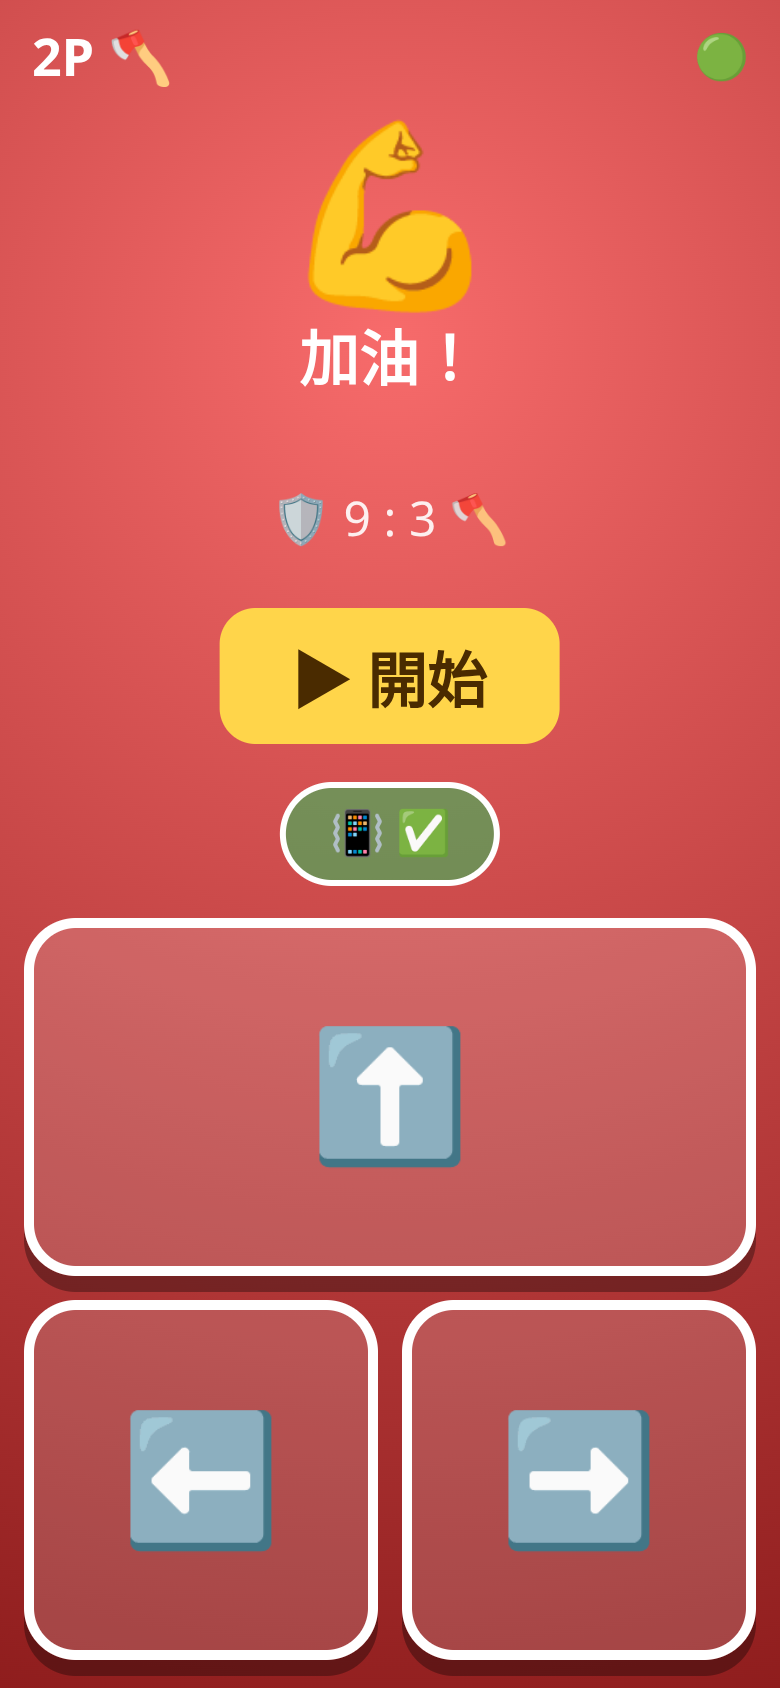
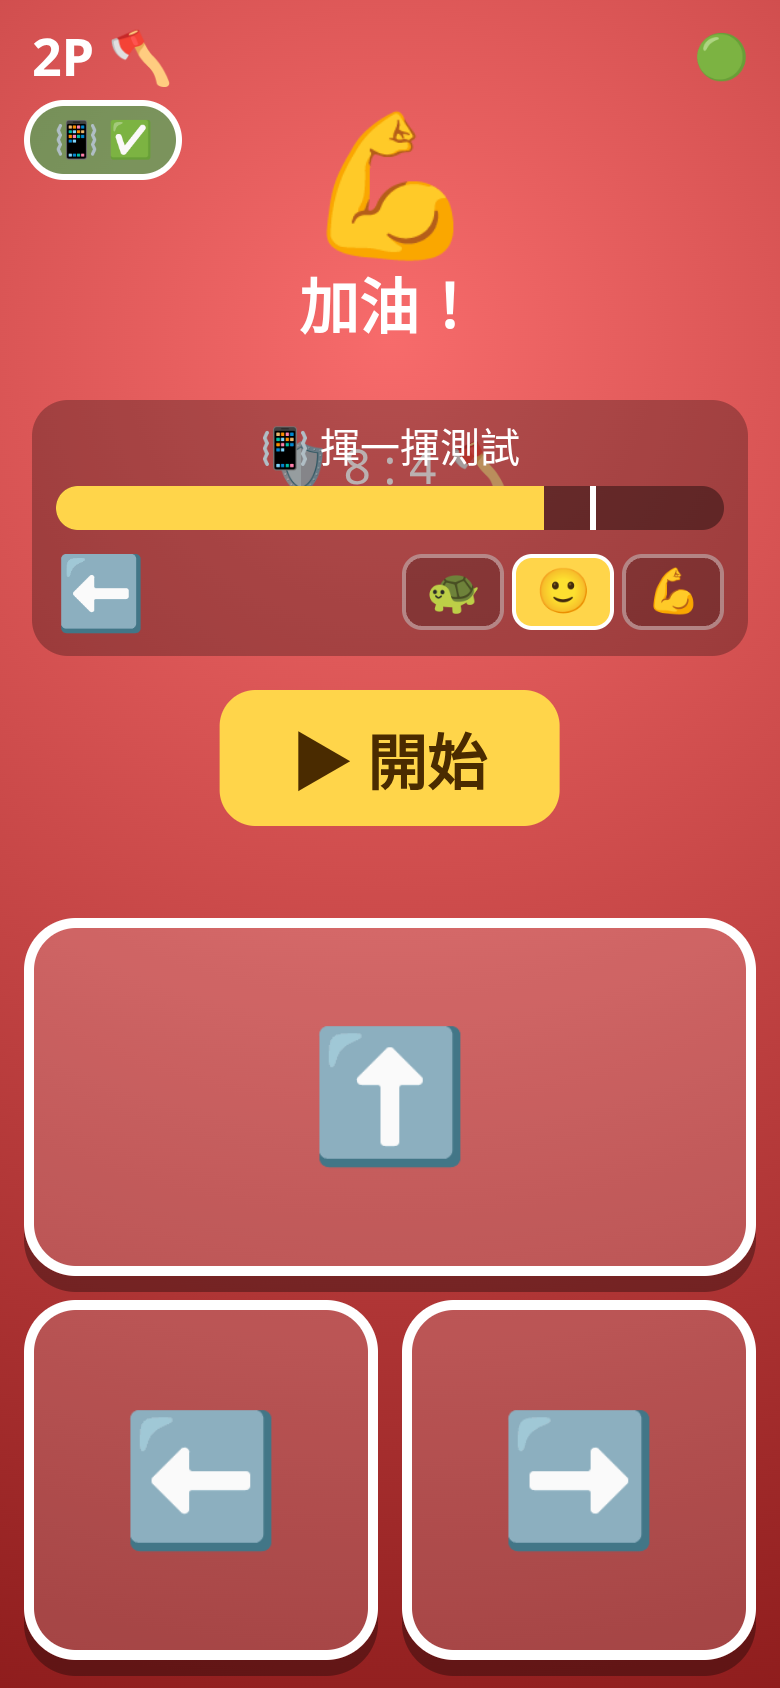
Real-swing detection (accel+rotation), hold-to-guard, swing test meter, sensitivity

Changed region(s): [[0.0308, 0.0616, 0.9846, 0.5237], [0.0308, 0.0616, 0.2462, 0.1232]]

diff --git a/js/controller.js b/js/controller.js
@@ -13,6 +13,7 @@
     const atk = S.role === 'atk';
     $('role').textContent = S.phase === 'over' ? (S.win ? '🏆' : S.draw ? '🤝' : '💪') : !S.connected ? '⏳' : S.phase === 'lobby' ? '✅' : atk ? '⚔' : '🛡';
     $('roleTxt').textContent = S.phase === 'over' ? (S.win ? '勝利！' : S.draw ? '平手' : '加油！') : !S.connected ? '連接中…' : S.phase === 'lobby' ? '已連接' : atk ? '你劈！' : '你擋！';
+    $('calib').classList.toggle('hidden', !(S.phase === 'lobby' || S.phase === 'over')); $('score').classList.toggle('hidden', S.phase === 'lobby');
     $('startBtn').classList.toggle('hidden', !(S.connected && (S.phase === 'lobby' || S.phase === 'over')));
     if (S.score) $('score').textContent = `🛡 ${S.score[0]} : ${S.score[1]} 🪓`;
   }
@@ -42,7 +43,7 @@
   function onData(m) {
     lastMsg = Date.now();
     if (m.t === 'state') { const changed = m.role !== S.role || m.phase !== S.phase; Object.assign(S, { role: m.role, phase: m.phase, score: m.score }); if (m.phase !== 'block') $('incoming').textContent = ''; if (changed && m.phase === 'chop') vib(m.role === 'atk' ? 60 : 0); ui(); }
-    if (m.t === 'incoming') { $('incoming').textContent = '❗' ; vib([40, 30, 40]); }
+    if (m.t === 'incoming') { $('incoming').textContent = '❗'; vib([40, 30, 40]); S.phase = 'block'; S.onIncoming && S.onIncoming(); }
     if (m.t === 'fx') { document.body.classList.remove('good', 'bad'); void document.body.offsetWidth; document.body.classList.add(m.kind); vib(m.kind === 'bad' ? 200 : 50); }
     if (m.t === 'over') { S.phase = 'over'; S.win = m.win; S.draw = m.draw; ui(); vib(m.win ? [100, 50, 100, 50, 300] : 100); }
   }
@@ -57,6 +58,7 @@
   function act(dir, src) {
     const now = Date.now(); if (now - lastAct < 350) return; lastAct = now;
     S.sent.push({ dir, src, t: now });
+    if (src !== 'btn') { const c = $('lastSwing'); c.textContent = ({ L: '⬅', T: '⬆', R: '➡' })[dir]; c.classList.remove('pop'); void c.offsetWidth; c.classList.add('pop'); }
     if (conn && conn.open) conn.send({ t: 'act', dir, src });
     const fx = $('swingFx'); fx.textContent = S.role === 'atk' ? '⚔' : '🛡'; fx.classList.remove('show'); void fx.offsetWidth; fx.classList.add('show');
     const b = $('b' + dir); b.classList.add('hit'); setTimeout(() => b.classList.remove('hit'), 150);
@@ -65,29 +67,57 @@
   document.querySelectorAll('#pad button').forEach((b) => b.addEventListener('pointerdown', (e) => { e.preventDefault(); act(b.dataset.d, 'btn'); }));
   $('startBtn').onclick = () => conn && conn.open && conn.send({ t: 'start' });
 
-  // ---- motion: swing detection ----
-  // Phone held upright in portrait, screen facing player. Sideways swing -> strong x accel; downward chop -> strong y/z.
-  const TH = 14; let motionOn = false, peakT = 0;
+  // ---- motion: real arm swings (forgiving for kids) ----
+  // Swing = big burst of linear acceleration OR fast rotation. Direction from the dominant axis over the
+  // first ~120 ms of the swing (sideways = ⬅/➡, downward chop = ⬆). Guard = phone raised and held steady
+  // in a pose (tilt left / upright / tilt right) when the chop arrives.
+  const SENS = { 1: 1.35, 2: 1, 3: 0.7 }; let sens = +(localStorage.getItem('sdr-sens') || 2);
+  let grav = null, motionOn = false, cool = 0, win = null, steadyMs = 0, lastT = 0, ori = { beta: 0, gamma: 0 }, level = 0;
+  S.guard = null; S.swings = 0;
+  function poseDir() {
+    const { beta, gamma } = ori; // beta: front/back tilt (90 = upright), gamma: left/right tilt
+    if (Math.abs(gamma) > 28) return gamma < 0 ? 'L' : 'R';
+    if (beta > 50) return 'T';
+    return null; // flat in the lap = no guard
+  }
+  addEventListener('deviceorientation', (e) => { if (e.beta != null) ori = { beta: e.beta, gamma: e.gamma }; });
   function onMotion(e) {
+    const now = performance.now(), dt = lastT ? Math.min(100, now - lastT) : 16; lastT = now;
     const a = e.acceleration && e.acceleration.x != null ? e.acceleration : null;
     let x, y, z;
-    if (a) { x = a.x; y = a.y; z = a.z; } else { const g = e.accelerationIncludingGravity || {}; x = g.x || 0; y = (g.y || 0) + 9.8; z = g.z || 0; }
-    const r = e.rotationRate || {};
-    const mag = Math.hypot(x, y, z);
-    const now = Date.now();
-    if (mag > TH && now - peakT > 500) {
-      peakT = now;
-      let dir;
-      if (Math.abs(x) > Math.max(Math.abs(y), Math.abs(z)) * 0.9) dir = x < 0 ? 'L' : 'R';
-      else dir = 'T';
-      // rotation around z (twist) also hints left/right
-      if (dir === 'T' && Math.abs(r.gamma || 0) > 250) dir = r.gamma > 0 ? 'L' : 'R';
-      S.lastMotion = { x, y, z, dir };
-      act(dir, 'motion');
+    if (a) { x = a.x; y = a.y; z = a.z; } else { // no gravity-free data: high-pass filter the raw signal (works on both iOS/Android sign conventions)
+      const g = e.accelerationIncludingGravity || {}; const gx = g.x || 0, gy = g.y || 0, gz = g.z || 0;
+      grav = grav ? [grav[0] * 0.85 + gx * 0.15, grav[1] * 0.85 + gy * 0.15, grav[2] * 0.85 + gz * 0.15] : [gx, gy, gz];
+      x = gx - grav[0]; y = gy - grav[1]; z = gz - grav[2]; }
+    const r = e.rotationRate || {}; const ra = r.alpha || 0, rb = r.beta || 0, rg = r.gamma || 0;
+    const acc = Math.hypot(x, y, z), rot = Math.hypot(ra, rb, rg);
+    const k = SENS[sens];
+    const power = Math.max(acc / (9 * k), rot / (220 * k)); // 1.0 = swing
+    level = Math.max(power, level * 0.9); meter(level);
+    // steadiness for guard
+    if (acc < 2.5 && rot < 40) steadyMs += dt; else steadyMs = 0;
+    S.guard = steadyMs > 150 ? poseDir() : null; S.guardAt = now; guardUI();
+    if (win) { // collecting direction evidence
+      win.h += Math.abs(x) * 1.0 + Math.abs(ra) * 0.03 + Math.abs(rg) * 0.02;
+      win.v += Math.abs(y) * 0.8 + Math.abs(z) * 0.6 + Math.abs(rb) * 0.03;
+      if (!win.sx && Math.abs(x) > 3) win.sx = Math.sign(x);
+      if (now - win.t0 > 120) { const d = win.h > win.v * 1.1 ? (win.sx < 0 || (!win.sx && ra > 0) ? 'L' : 'R') : 'T'; win = null; S.lastMotion = { dir: d }; S.swings++; act(d, 'motion'); }
+      return;
+    }
+    if (power >= 1 && now > cool) {
+      cool = now + 450;
+      win = { t0: now, h: 0, v: 0, sx: Math.abs(x) > 3 ? Math.sign(x) : 0 };
+      win.h += Math.abs(x) + Math.abs(ra) * 0.03 + Math.abs(rg) * 0.02; win.v += Math.abs(y) * 0.8 + Math.abs(z) * 0.6 + Math.abs(rb) * 0.03;
     }
   }
+  function meter(v) { const f = $('meterFill'); if (f) { f.style.width = Math.min(100, v * 80) + '%'; f.style.background = v >= 1 ? '#22c55e' : '#ffd54a'; } }
+  function guardUI() { const g = $('guard'); if (g) g.textContent = S.guard ? '🛡' + ({ L: '⬅', T: '⬆', R: '➡' })[S.guard] : ''; }
+  // when a chop is incoming and the defender is already holding a guard pose, that counts as the block
+  const fresh = () => S.guard && performance.now() - (S.guardAt || 0) < 400;
+  S.onIncoming = () => { if (motionOn && fresh()) setTimeout(() => act(S.guard, 'guard'), 120); else { const t0 = Date.now(); const iv = setInterval(() => { if (S.phase !== 'block' || Date.now() - t0 > 1000) return clearInterval(iv); if (fresh()) { clearInterval(iv); act(S.guard, 'guard'); } }, 50); } };
+  document.querySelectorAll('#sens button').forEach((b) => { b.classList.toggle('on', +b.dataset.s === sens); b.onclick = () => { sens = +b.dataset.s; localStorage.setItem('sdr-sens', sens); document.querySelectorAll('#sens button').forEach((x) => x.classList.toggle('on', x === b)); }; });
   function enableMotion() {
-    const go = () => { if (!motionOn) { addEventListener('devicemotion', onMotion); motionOn = true; } $('motion').classList.add('on'); $('motion').textContent = '📳 ✅'; };
+    const go = () => { if (!motionOn) { addEventListener('devicemotion', onMotion); motionOn = true; } if (typeof DeviceOrientationEvent !== 'undefined' && DeviceOrientationEvent.requestPermission) DeviceOrientationEvent.requestPermission().catch(() => {}); $('motion').classList.add('on'); $('motion').textContent = '📳 ✅'; };
     if (typeof DeviceMotionEvent !== 'undefined' && typeof DeviceMotionEvent.requestPermission === 'function') {
       DeviceMotionEvent.requestPermission().then((s) => { if (s === 'granted') go(); else $('motion').textContent = '📳 ❌'; }).catch(() => { $('motion').textContent = '📳 ❌'; });
     } else go();

diff --git a/tests_playwright.js b/tests_playwright.js
@@ -2,6 +2,18 @@ const { chromium, devices } = require('playwright');
 const BASE = process.argv[2] || 'https://pakho2433.github.io/sword-duel-remote/';
 const OUT = '/workspace/sword-duel-remote/previews/';
 const errors = [];
+const SIM = () => {
+  const fire = (x, y, z, ra, rb, rg) => window.dispatchEvent(new DeviceMotionEvent('devicemotion', { acceleration: { x, y, z }, accelerationIncludingGravity: { x, y: y - 9.8, z }, rotationRate: { alpha: ra, beta: rb, gamma: rg }, interval: 16 }));
+  window.__swing = async (dir) => { // ~20 samples of a real arm swing: ramp up, peak, decelerate
+    for (let i = 0; i < 20; i++) { const env = Math.sin(Math.PI * i / 20) * (i < 14 ? 1 : -0.6); const s = dir === 'L' ? -1 : 1;
+      if (dir === 'T') fire(1.5 * env, -16 * env, 6 * env, 20, 320 * env, 10); else fire(s * 17 * env, 2 * env, 3 * env, -s * 250 * env, 20, 30);
+      await new Promise((r) => setTimeout(r, 16)); }
+  };
+  window.__hold = async (dir) => { window.dispatchEvent(new DeviceOrientationEvent('deviceorientation', { alpha: 0, beta: dir === 'T' ? 75 : 40, gamma: dir === 'L' ? -45 : dir === 'R' ? 45 : 0 }));
+    for (let i = 0; i < 20; i++) { fire(0.2, 0.1, 0.1, 2, 3, 1); await new Promise((r) => setTimeout(r, 16)); }
+    (async () => { for (let i = 0; i < 150; i++) { fire(0.2, 0.1, 0.1, 2, 3, 1); await new Promise((r) => setTimeout(r, 16)); } })(); };
+};
+
 (async () => {
   const browser = await chromium.launch({ args: ['--use-gl=angle', '--use-angle=swiftshader', '--enable-unsafe-swiftshader', '--autoplay-policy=no-user-gesture-required'] });
   const watch = (pg, name) => { pg.on('console', (m) => { if (m.type() === 'error') errors.push(`${name}: ${m.text()}`); }); pg.on('pageerror', (e) => errors.push(`${name} pageerror: ${e.message}`)); };
@@ -16,12 +28,13 @@ const errors = [];
   const iphone = { viewport: { width: 390, height: 844 }, deviceScaleFactor: 2, isMobile: true, hasTouch: true, userAgent: devices['iPhone 13'].userAgent, permissions: ['accelerometer', 'gyroscope'] };
   const ctl = {};
   for (const p of [1, 2]) {
-    const c = await browser.newContext(iphone); const pg = await c.newPage(); watch(pg, 'ctl' + p);
+    const c = await browser.newContext(iphone); await c.addInitScript(SIM); const pg = await c.newPage(); watch(pg, 'ctl' + p);
     await pg.goto(`${BASE}controller.html?room=${room}&p=${p}`);
     ctl[p] = pg;
   }
   await host.waitForFunction(() => window.__game.conn[1] && window.__game.conn[2], null, { timeout: 45000 });
   console.log('both connected');
+  await ctl[1].tap('#motion'); await ctl[1].evaluate(() => window.__swing('R')); await ctl[1].waitForTimeout(200); await ctl[1].screenshot({ path: OUT + '3b-controller-swing-meter.png' }); console.log('test swing', JSON.stringify(await ctl[1].evaluate(() => window.__ctl.lastMotion)));
   await host.waitForTimeout(500);
   await host.screenshot({ path: OUT + '2-lobby-connected.png' });
   await ctl[1].screenshot({ path: OUT + '3-controller-p1-lobby.png' });
@@ -38,17 +51,19 @@ const errors = [];
       turnsSeen.add(g.turn); i++;
       const dir = 'LTR'[i % 3];
       const a = ctl[g.atk], d = ctl[g.atk === 1 ? 2 : 1];
+      if (i % 5 === 4) await d.evaluate((dir) => window.__hold(dir), dir);
       await a.waitForTimeout(300);
       if (i % 3 === 0) { // motion swing on the attacker
-        await a.evaluate((dir) => { const x = dir === 'L' ? -25 : dir === 'R' ? 25 : 2; const y = dir === 'T' ? -28 : 1; window.dispatchEvent(new DeviceMotionEvent('devicemotion', { acceleration: { x, y, z: 1 }, accelerationIncludingGravity: { x, y: y - 9.8, z: 1 }, rotationRate: { alpha: 0, beta: 0, gamma: 0 }, interval: 16 })); }, dir);
+        await a.evaluate((dir) => window.__swing(dir), dir);
         motionUsed++;
       } else await a.tap('#b' + dir);
-      await host.waitForFunction(() => window.__game.phase === 'block', null, { timeout: 5000 }).catch(async (e) => { console.log('DBG', JSON.stringify(await host.evaluate(() => ({ ph: window.__game.phase, log: window.__game.log.slice(-3) }))), JSON.stringify(await a.evaluate(() => window.__ctl))); throw e; });
+      await host.waitForFunction(() => window.__game.phase !== 'chop', null, { timeout: 5000 }).catch(async (e) => { console.log('DBG', JSON.stringify(await host.evaluate(() => ({ ph: window.__game.phase, log: window.__game.log.slice(-3) }))), JSON.stringify(await a.evaluate(() => window.__ctl))); throw e; });
       if (shots === 0) { await host.waitForTimeout(250); await host.screenshot({ path: OUT + '4-chop-telegraph.png' }); await d.screenshot({ path: OUT + '5-controller-defender.png' }); await a.screenshot({ path: OUT + '5b-controller-attacker.png' }); }
       const bdir = i % 4 === 1 ? 'LTR'[(i + 1) % 3] : dir; // sometimes wrong block
       await d.waitForTimeout(250);
-      if (i % 5 === 2) await d.evaluate((dir) => { const x = dir === 'L' ? -22 : dir === 'R' ? 22 : 1; const y = dir === 'T' ? -26 : 1; window.dispatchEvent(new DeviceMotionEvent('devicemotion', { acceleration: { x, y, z: 0 }, rotationRate: { alpha: 0, beta: 0, gamma: 0 }, interval: 16 })); }, bdir), motionUsed++;
-      else await d.tap('#b' + bdir);
+      if (i % 5 === 2) await d.evaluate((dir) => window.__swing(dir), bdir), motionUsed++;
+      else if (i % 5 === 4) { motionUsed++; }
+      else if (i % 5 !== 4) await d.tap('#b' + bdir);
       await host.waitForFunction(() => window.__game.phase !== 'block', null, { timeout: 5000 }); const lg = await host.evaluate(() => window.__game.log.slice(-2)); console.log('turn', g.turn, JSON.stringify(lg), await host.evaluate(() => window.__game.blockDir));
       if (shots < 2) { await host.waitForTimeout(350); await host.screenshot({ path: OUT + `6-result-${shots}.png` }); }
       shots++;

diff --git a/controller.html b/controller.html
@@ -15,7 +15,7 @@ body.good{animation:flashG .5s}body.bad{animation:flashR .5s}
 @keyframes flashR{0%{box-shadow:inset 0 0 0 40px #fff}100%{box-shadow:inset 0 0 0 0 #fff}}
 #top{display:flex;justify-content:space-between;align-items:center;padding:calc(env(safe-area-inset-top) + 10px) 16px 6px;font-size:26px;font-weight:bold}
 #conn{font-size:22px}
-#role{text-align:center;font-size:90px;margin-top:4px;line-height:1.1}
+#role{text-align:center;font-size:70px;margin-top:0;line-height:1.1}
 #roleTxt{text-align:center;font-size:30px;font-weight:900;min-height:40px}
 #incoming{text-align:center;font-size:30px;min-height:44px}
 #score{text-align:center;font-size:24px;opacity:.9}
@@ -23,16 +23,23 @@ body.good{animation:flashG .5s}body.bad{animation:flashR .5s}
 #pad button{font-size:64px;border-radius:26px;border:5px solid #fff;background:#ffffff2a;color:#fff;box-shadow:0 8px 0 #0005}
 #pad button:active,#pad button.hit{transform:translateY(6px);box-shadow:0 2px 0 #0005;background:#ffd54a88}
 #bT{grid-column:1/3}
-#motion{position:absolute;left:50%;transform:translateX(-50%);bottom:calc(44vh + 30px);font-size:22px;padding:10px 22px;border-radius:30px;border:3px solid #fff;background:#0004;color:#fff}
+#motion{position:absolute;left:12px;top:calc(env(safe-area-inset-top) + 50px);font-size:18px;padding:6px 12px;border-radius:30px;border:3px solid #fff;background:#0004;color:#fff}
 #motion.on{background:#22c55e88}
 #overlay{position:fixed;inset:0;background:#000c;display:flex;flex-direction:column;align-items:center;justify-content:center;font-size:30px;gap:16px;text-align:center;z-index:9}
 #overlay input{font-size:40px;width:6em;text-align:center;letter-spacing:8px;border-radius:14px;border:0;padding:8px;text-transform:uppercase}
 #overlay button,#startBtn{font-size:30px;padding:12px 36px;border-radius:18px;border:0;background:#ffd54a;color:#4a2b00;font-weight:bold}
-#startBtn{position:absolute;left:50%;top:36%;z-index:3;transform:translateX(-50%)}
+#startBtn{position:absolute;left:50%;top:345px;transform:translateX(-50%);z-index:3}
 .hidden{display:none!important}
 #swingFx{position:fixed;inset:0;pointer-events:none;font-size:160px;display:flex;align-items:center;justify-content:center;opacity:0}
 #swingFx.show{animation:sw .45s}
 @keyframes sw{0%{opacity:1;transform:scale(.5)}100%{opacity:0;transform:scale(1.4)}}
+#calib{position:absolute;left:16px;right:16px;top:200px;background:#0004;border-radius:18px;padding:8px 12px;text-align:center}
+.ct{font-size:20px}#meter{position:relative;height:22px;background:#0006;border-radius:12px;overflow:hidden;margin:6px 0}
+#meterFill{height:100%;width:0;background:#ffd54a;transition:width .05s}#mline{position:absolute;left:80%;top:0;bottom:0;width:3px;background:#fff}
+.crow{display:flex;justify-content:space-between;align-items:center}#lastSwing{font-size:36px}#lastSwing.pop{animation:sw2 .4s}
+@keyframes sw2{0%{transform:scale(1.8)}100%{transform:scale(1)}}
+#sens button{font-size:22px;padding:4px 10px;margin-left:4px;border-radius:10px;border:2px solid #fff6;background:#0003}#sens button.on{background:#ffd54a;border-color:#fff}
+#guard{position:absolute;right:16px;top:calc(env(safe-area-inset-top) + 48px);font-size:30px}
 </style>
 </head>
 <body>
@@ -41,6 +48,8 @@ body.good{animation:flashG .5s}body.bad{animation:flashR .5s}
 <div id="roleTxt"></div>
 <div id="incoming"></div>
 <div id="score"></div>
+<div id="calib"><div class="ct">📳 揮一揮測試</div><div id="meter"><div id="meterFill"></div><div id="mline"></div></div><div class="crow"><span id="lastSwing">·</span><span id="sens"><button data-s="1">🐢</button><button data-s="2">🙂</button><button data-s="3">💪</button></span></div></div>
+<div id="guard"></div>
 <button id="startBtn" class="hidden">▶ 開始</button>
 <button id="motion">📳 揮動手機</button>
 <div id="pad">

diff --git a/index.html b/index.html
@@ -42,7 +42,7 @@
     <div class="keys"><div class="k p1">1P 🛡<br><kbd>A</kbd><kbd>S</kbd><kbd>D</kbd><br>⬅ ⬆ ➡</div><div class="k p2">2P 🪓<br><kbd>J</kbd><kbd>K</kbd><kbd>L</kbd><br>⬅ ⬆ ➡</div></div>
     <div class="hint">iPad：左右兩邊按掣 👆</div>
   </div>
-  <div class="rules">⚔ 劈 → 🛡 擋同一方向 ✅</div>
+  <div class="rules">⚔ 揮手機劈 → 🛡 擋同一方向 ✅<br><small>🛡 手機 ⬅傾 / ⬆企直 / ➡傾 定住 = 擋</small></div>
   <button id="start" class="big">▶ 開始</button>
 </div>
 
